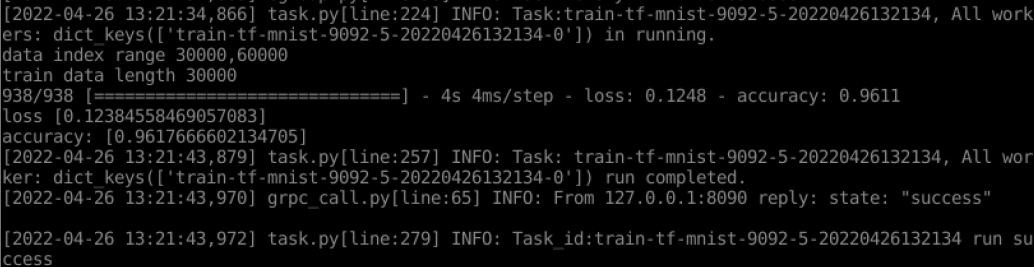
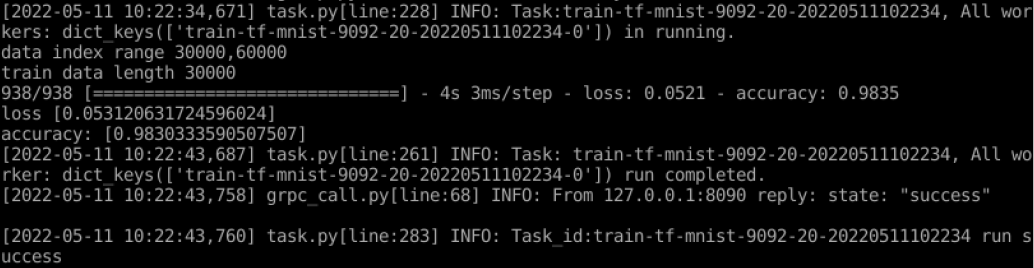
1.Add badge in README.md. 2.Add federated training result in quick_start.md

Changed region(s): [[0.0, 0.0, 1.0, 0.779], [0.0, 0.839, 1.0, 1.0], [0.7118, 0.2996, 0.8665, 0.3895]]

diff --git a/README.md b/README.md
@@ -1,5 +1,7 @@
 # Neursafe FL
 
+[![license](https://img.shields.io/github/license/ChengMingZhang-ZTE/federated-learning)](https://opensource.org/licenses/Apache-2.0)[![Neursafe_FL_C](https://github.com/neursafe/federated-learning/actions/workflows/ci.yml/badge.svg)](https://github.com/neursafe/federated-learning/actions/workflows/ci.yml)
+
 [中文](README_zh.md)
 
 **Neursafe** is an open source community that focuses on AI Security and Safety, among which **Neursafe FL** as a sub project of Neursafe, provides federated learning solutions. Federated learning is a privacy preserving machine learning method that utilizes a large number of decentralized data remaining on client devices collaborates to complete the training of machine learning models. The goal of Neursafe FL is to create a reliable, efficient, easy-to-use federated learning and federated computing platform under the premise of privacy and security. Neursafe-FL features the following:

diff --git a/docs/quick_start.md b/docs/quick_start.md
@@ -47,7 +47,7 @@ python3 example/scripts/gen_mnist_config.py --job_name=tf_mnist \
 --client_ports=9091,9092 \
 --runtime=tensorflow \
 --platform=linux \
---rounds=5 \
+--rounds=20 \
 --dataset=/tmp/nsfl/data/mnist/tf/mnist.npz
 ```
 
@@ -188,3 +188,11 @@ After executing the above command, we can see the cooperation process of federat
 ![coordinator](images/example-mnist-coordinator-process.png)
 
 
+
+### 4. Result
+
+This example demonstrates that two clients participate in Federated training. After training, the final model and metrics will be saved in directory /tmp/nsfl/coordinator/tf_mnist/fl_tf-mnist_output_V0:
+
+![result](images/example-mnist-result.png)
+
+Among them, checkpoint_ 20.h5 is the final model weight after 20 rounds of federated training, metrics.json  records the accuracy, loss and other information of the model.

diff --git a/README_zh.md b/README_zh.md
@@ -1,5 +1,7 @@
 # Neursafe FL
 
+[![license](https://img.shields.io/github/license/ChengMingZhang-ZTE/federated-learning)](https://opensource.org/licenses/Apache-2.0)[![Neursafe_FL_C](https://github.com/neursafe/federated-learning/actions/workflows/ci.yml/badge.svg)](https://github.com/neursafe/federated-learning/actions/workflows/ci.yml)
+
 [English](README.md)
 
 **Neursafe**为关注AI安全解决方案的开源社区，其中**Neursafe FL**作为Neursafe的子项目提供联邦学习的解决方案，联邦学习为一种隐私安全的机器学习方法，利用大量驻留在客户设备上的去中心化数据协作完成机器学习模型的训练。Neursafe FL的目标是在隐私安全前提下打造可靠、高效、易用的联邦学习和联邦计算平台。Neursafe FL的特点如下：

diff --git a/docs/quick_start_zh.md b/docs/quick_start_zh.md
@@ -47,7 +47,7 @@ python3 example/scripts/gen_mnist_config.py --job_name=tf_mnist \
 --client_ports=9091,9092 \
 --runtime=tensorflow \
 --platform=linux \
---rounds=5 \
+--rounds=20 \
 --dataset=/tmp/nsfl/data/mnist/tf/mnist.npz
 ```
 
@@ -188,3 +188,11 @@ docker run -v /tmp/neursafe:/tmp/neursafe --net=host nsfl-coordinator /tmp/nsfl/
 ![coordinator](images/example-mnist-coordinator-process.png)
 
 
+
+### 4. 结果
+
+本example演示了两个客户端参与联邦训练，训练完成后，最终的模型和指标信息会保存在/tmp/nsfl/coordinator/tf_mnist/fl_tf-mnist_output_V0目录下：
+
+ ![result](images/example-mnist-result.png)
+
+其中，checkpoint_20.h5是20轮联邦训练后最终的模型权重，metrics.json记录了模型的accuracy、loss等信息。
